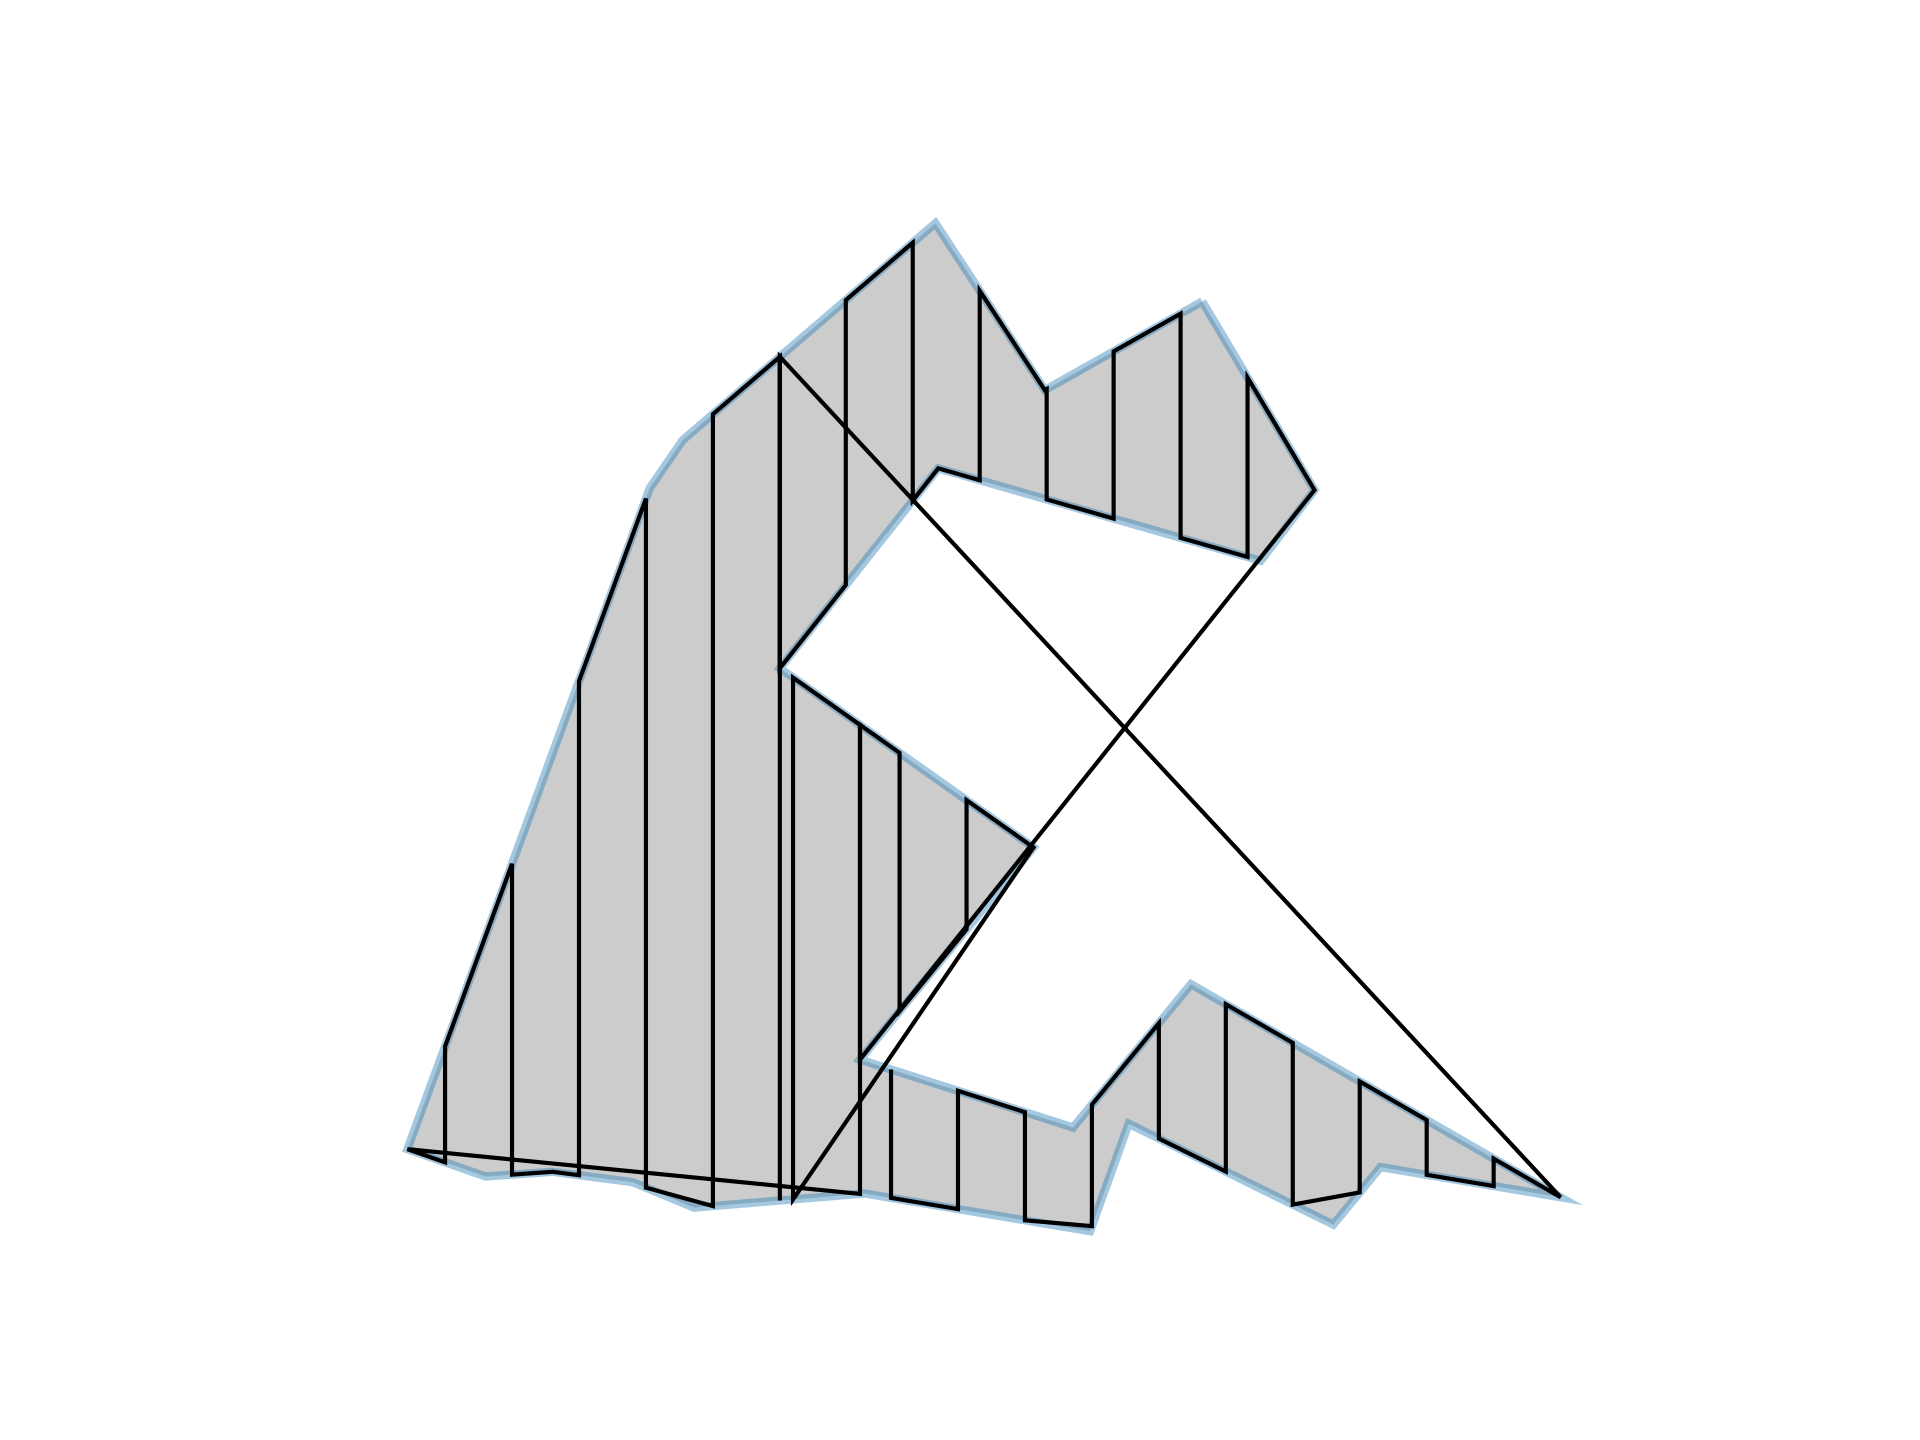
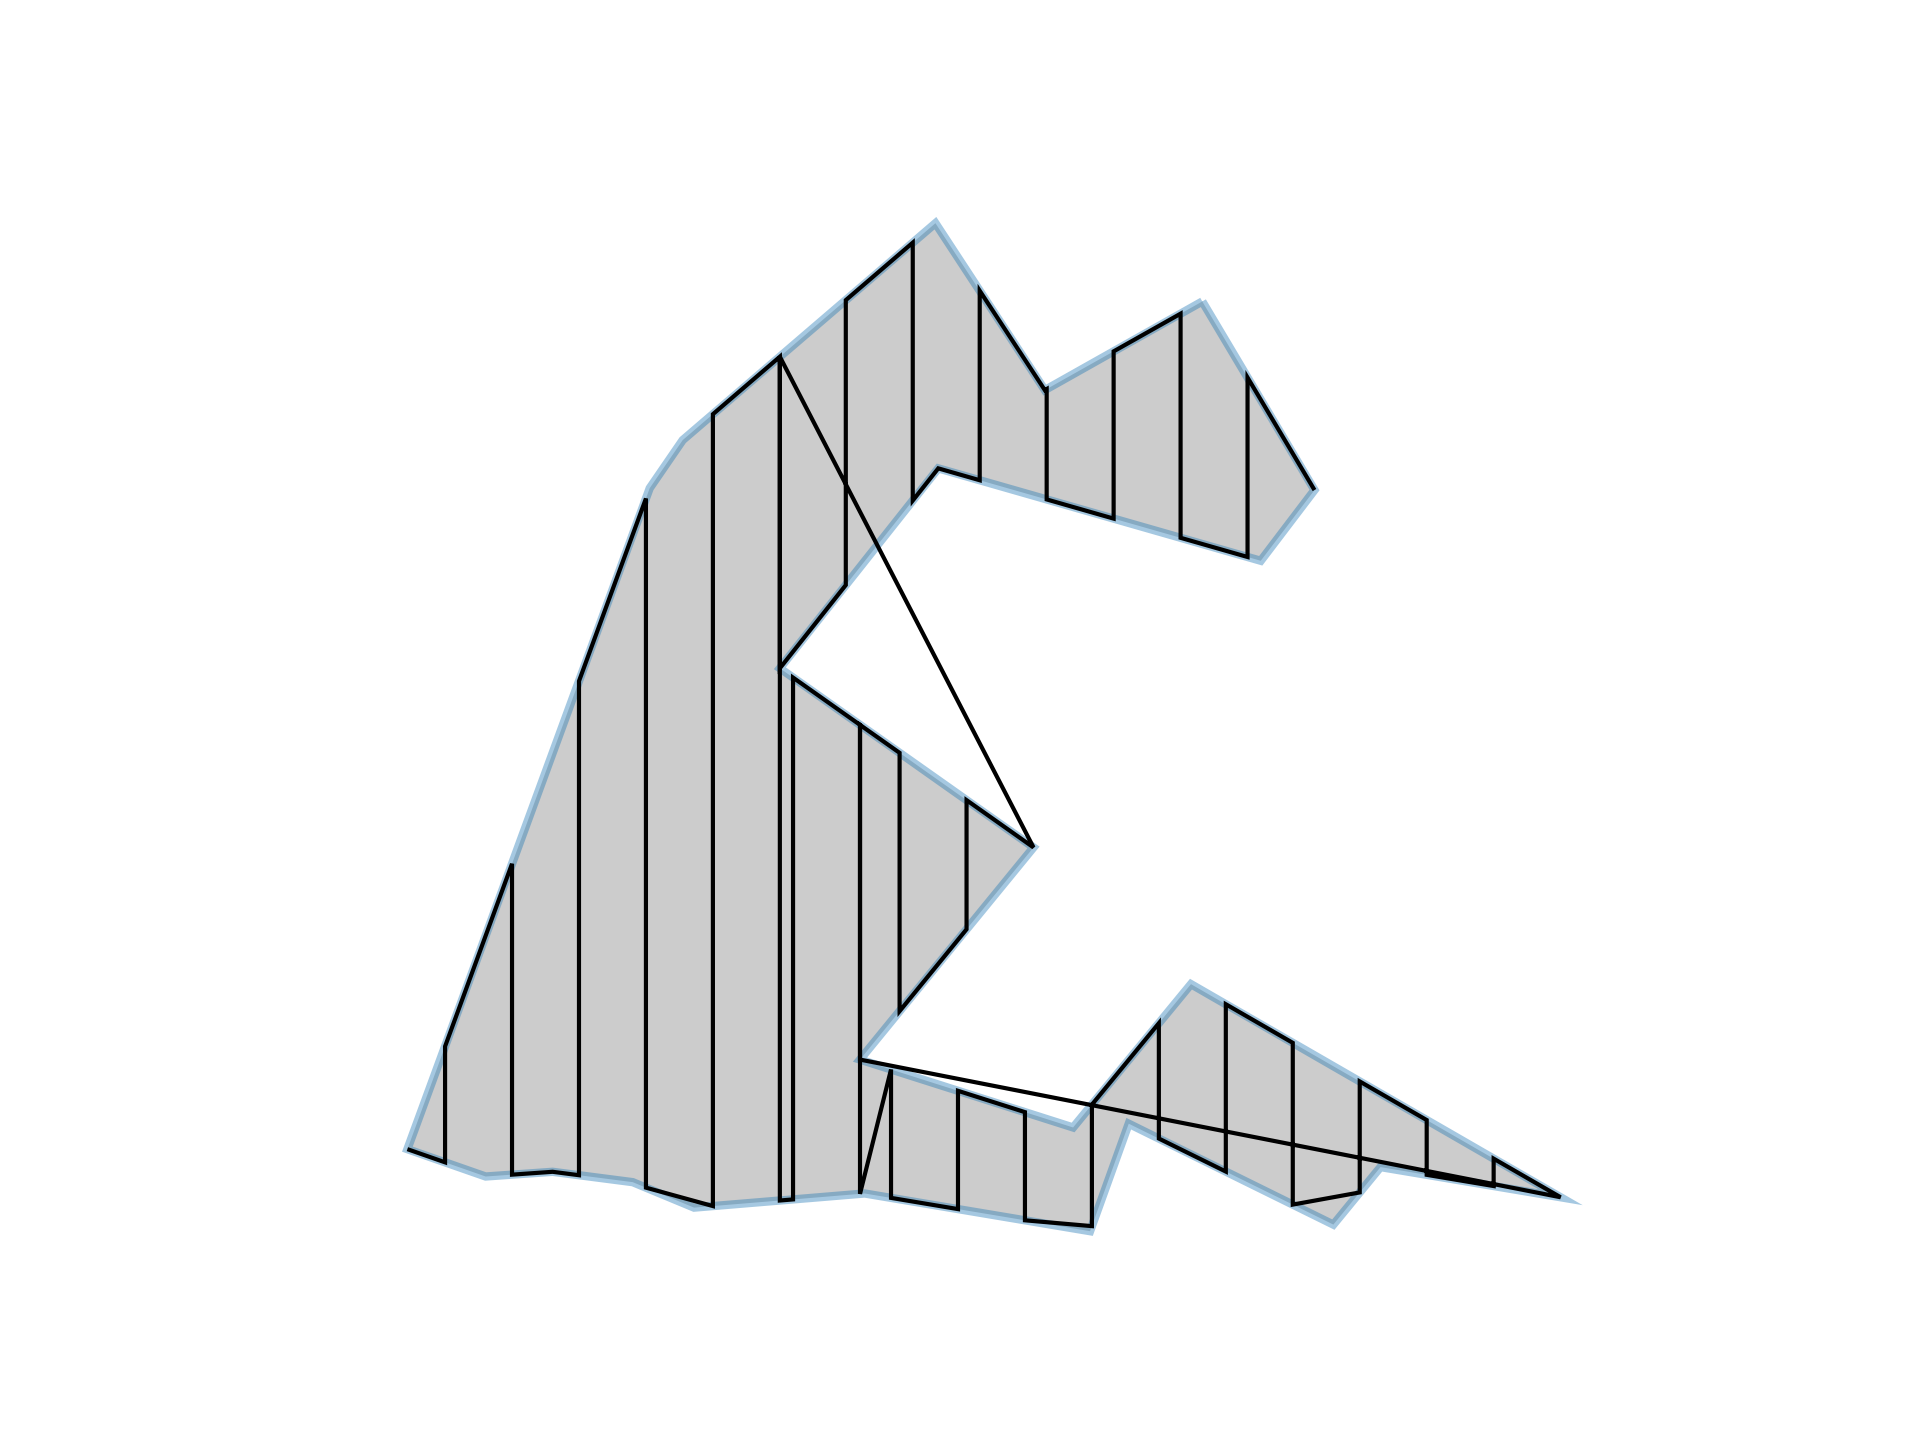
枚举所有排列，选择最短路径。TODO：不能出界，每个轨迹有正反两种情况

diff --git a/trajgenpy/Geometries.py b/trajgenpy/Geometries.py
@@ -9,6 +9,8 @@ import random
 import trajgenpy.bindings as bindings
 from trajgenpy import Logging
 
+import itertools
+
 log = Logging.get_logger()
 
 
@@ -112,10 +114,19 @@ class GeoMultiTrajectory(GeoData):
             super().__init__(geometry, crs)
 
     def concatenate_trajectories(self, geo_poly):
-        concatenated_line = shapely.geometry.LineString(
-            [pt for line in self.geometry.geoms for pt in list(line.coords)]
-        )
-        self.geometry = concatenated_line
+        min_solution = None
+        best_line = None
+
+        permutations = list(itertools.permutations(self.geometry.geoms))
+        for p in permutations:
+            concatenated_line = shapely.geometry.LineString(
+                [pt for line in p for pt in list(line.coords)]
+            )
+            if min_solution is None or concatenated_line.length < min_solution:
+                min_solution = concatenated_line.length
+                best_line = concatenated_line
+
+        self.geometry = best_line
 
     def plot(self, ax=None, add_points=False, color=None, linewidth=2, **kwargs):
         if self.crs == "WGS84":
